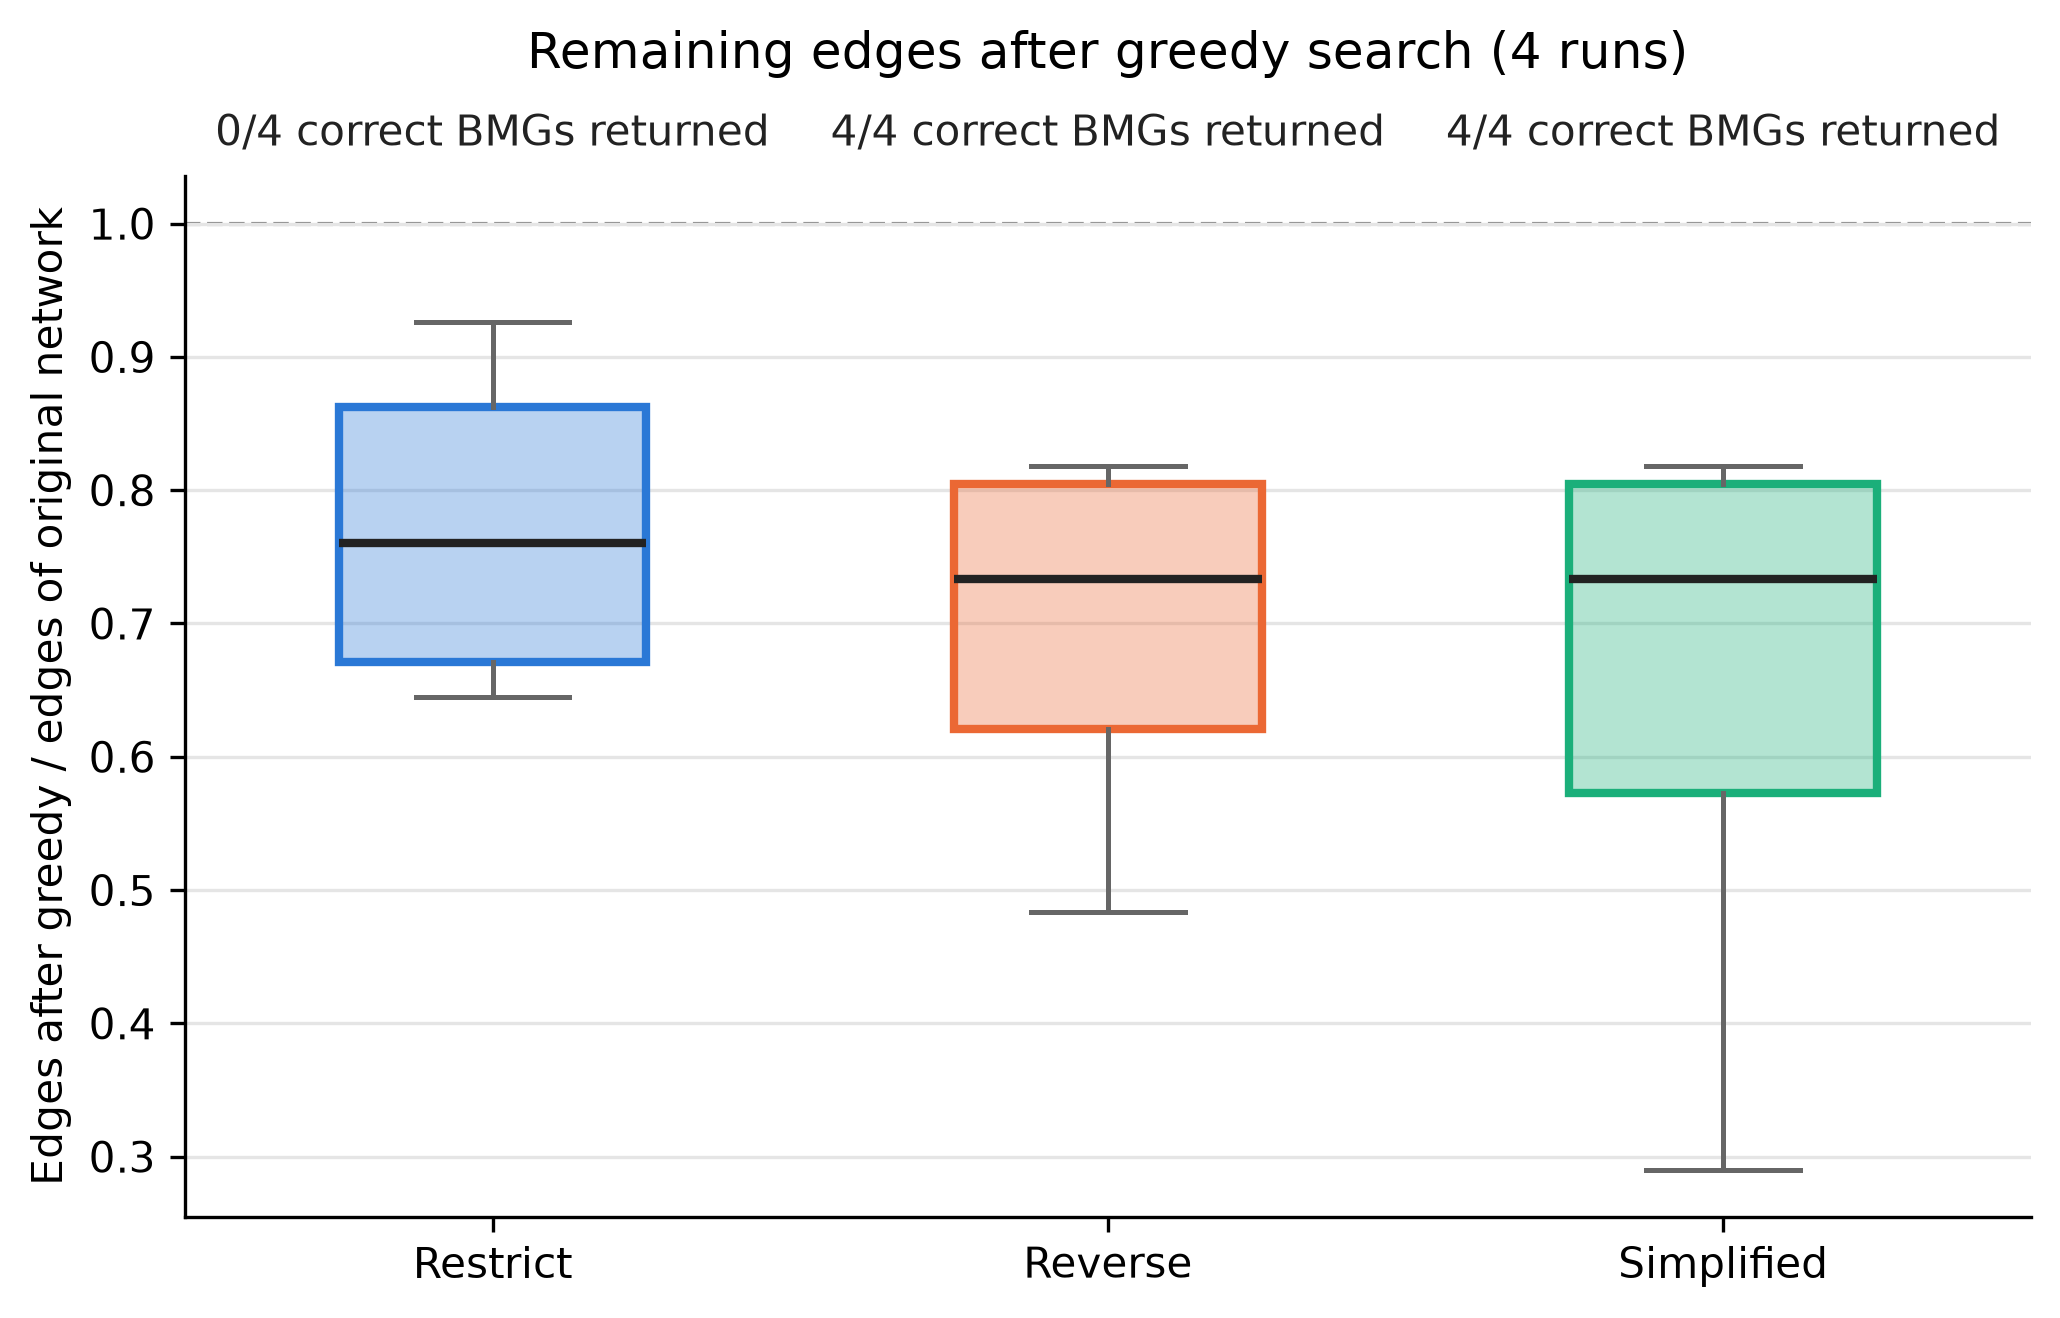
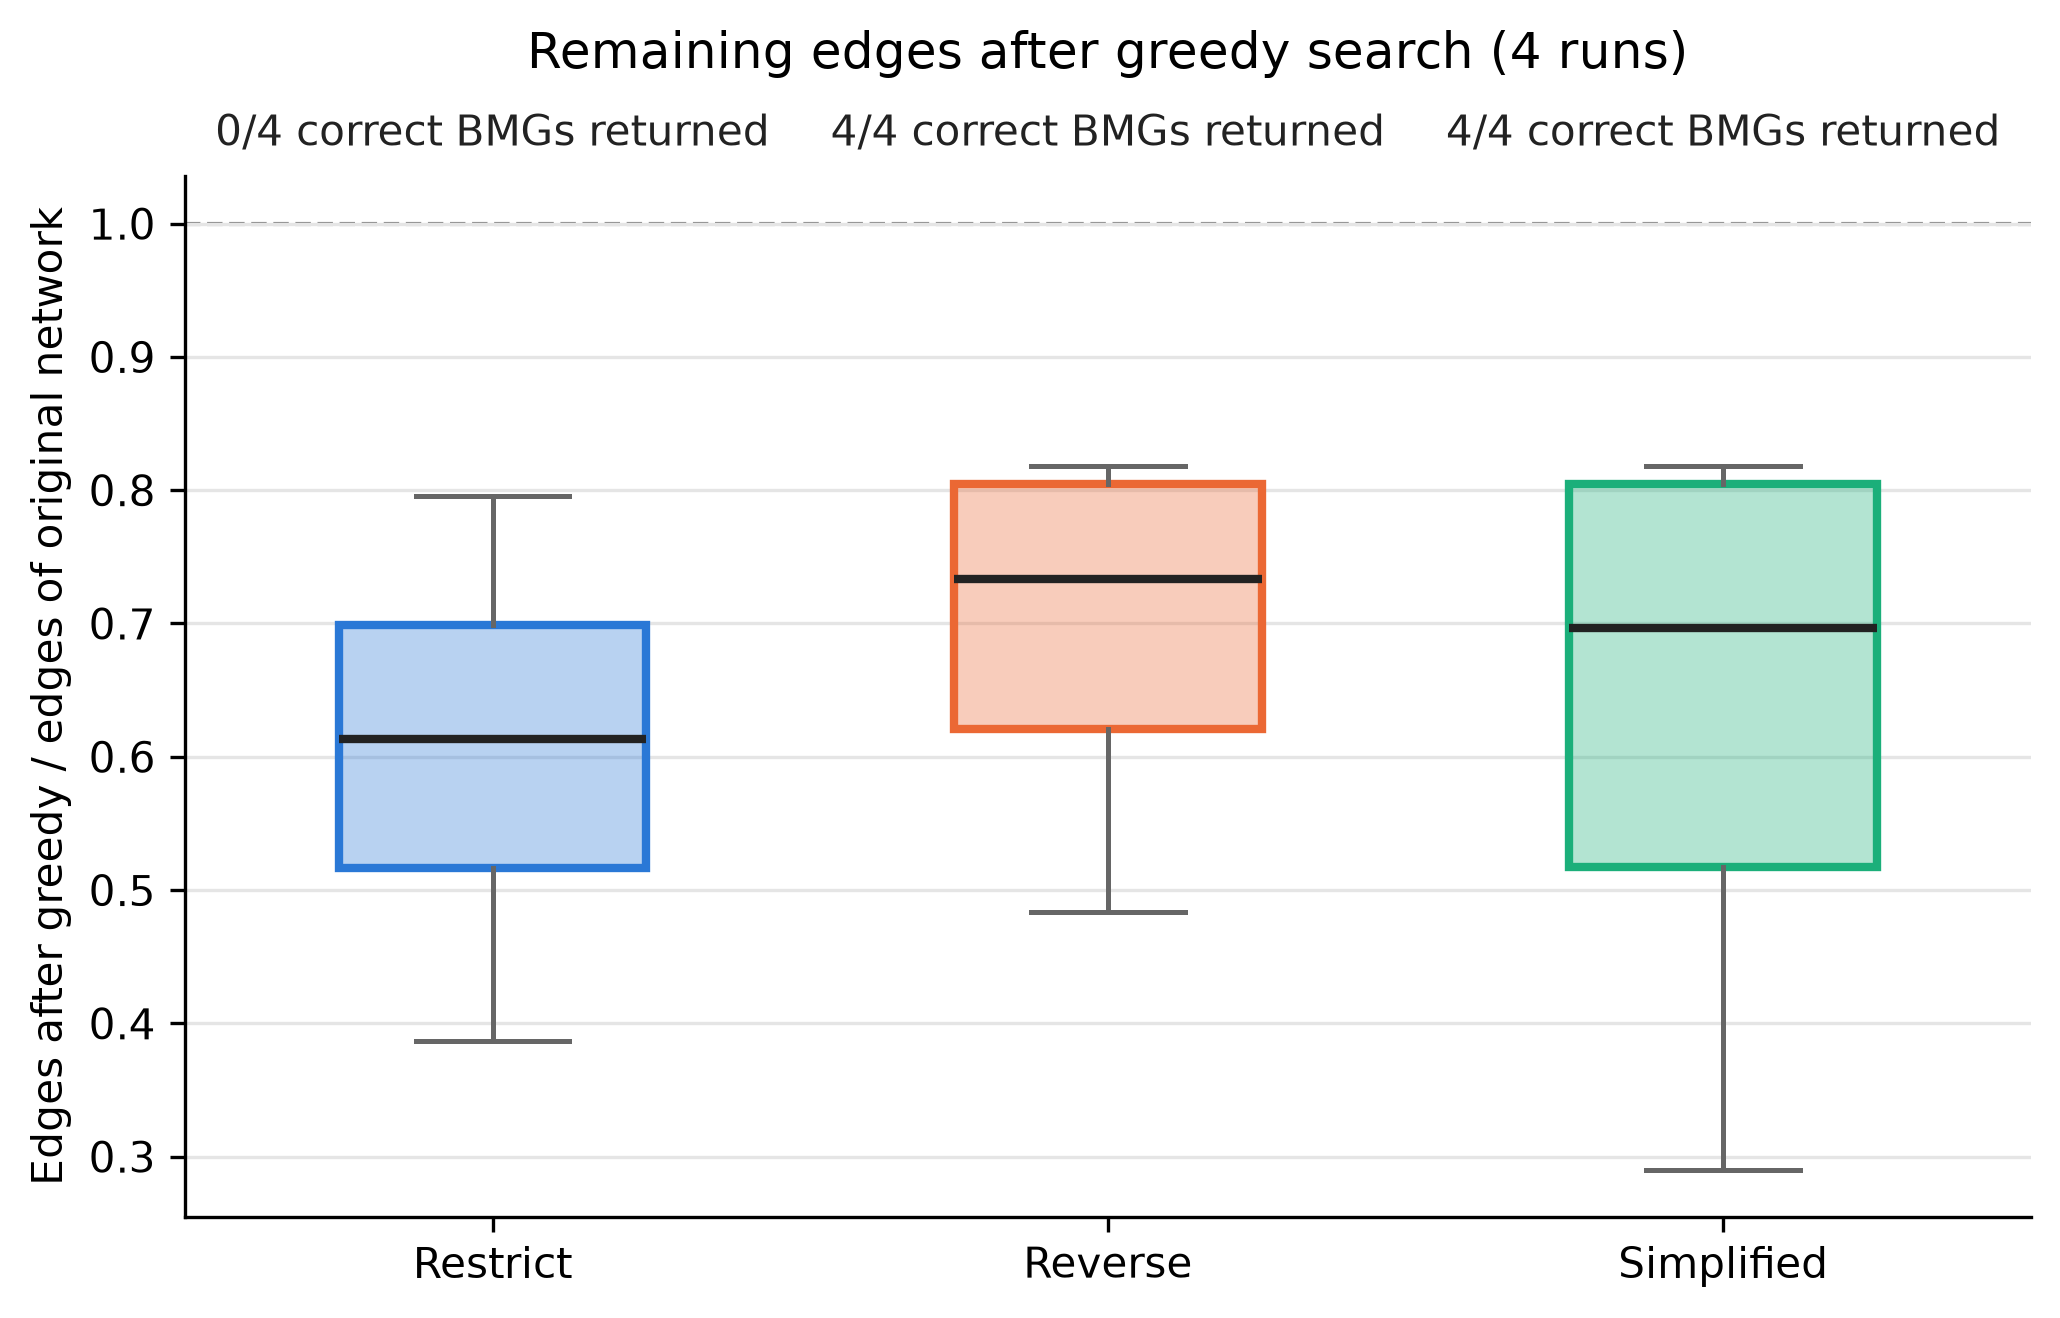
Added Tonys Funktion to greedy search, commented diamond out for now, changed output so flag can indicate if num of steps should be printed or returned as output. Added network test to break bmgs weak.

diff --git a/Code/simplifying_operations.py b/Code/simplifying_operations.py
@@ -4,6 +4,7 @@ import random
 from bmg_Tony import bmg
 from graph_functionality import compute_tree_likeness
 from network_editing_operations import remove_non_informative_nodes, remove_redundant_vertices
+import itertools
 
 """
     This script provides methods to simplify a graph network
@@ -232,10 +233,43 @@ def remove_diamond(network, network_bmg, bmg_mode):
                 network.add_edge(parent2, node)
     return network, False
 
+def combine_nodes(RBC):
+# Function from Tony, explanation missing
+    inner_nodes = [node for node in RBC.nodes if RBC.out_degree(node) > 0 and RBC.in_degree(node) > 0]
+    for node1, node2 in itertools.combinations(inner_nodes, 2):
+
+        # Knoten könnte durch eine frühere, akzeptierte Änderung schon entfernt worden sein
+        if not RBC.has_node(node1) or not RBC.has_node(node2):
+            continue
+
+        if (set(RBC.predecessors(node1)) == set(RBC.predecessors(node2))
+                and RBC.out_degree(node1) > 0
+                and RBC.out_degree(node2) > 0):
+
+            RBC2 = RBC.copy()  # echte, unabhängige Kopie
+            bmg_RBC = bmg(RBC, 'weak')
+
+            for successor in RBC.successors(node1):
+                RBC2.add_edge(node2, successor)
+            RBC2.remove_node(node1)
+
+            bmg_RBC2 = bmg(RBC2, 'weak')
+
+            if nx.utils.graphs_equal(bmg_RBC, bmg_RBC2):
+                RBC = RBC2
+                #return RBC2
+                #RBC = RBC2  # Änderung übernehmen
+                #bmg_RBC = bmg_RBC2  # Vergleichswert aktualisieren
+            #else:
+                #return RBC
+            # sonst: RBC2 wird einfach verworfen
+    return RBC
+
+
 def greedy_search(network: nx.DiGraph,
                   max_number_of_steps:int = 100,
                   tree_likeness_function:Callable[[nx.DiGraph], int] = compute_tree_likeness,
-                  bmg_mode:str="weak"):
+                  bmg_mode:str="weak", report_step_num:bool =False):
     """ Greedily searches for graph editing operations that can be performed on a network to make it more tree-like according to the tree_likeness_function.
 
         Parameters
@@ -248,6 +282,8 @@ def greedy_search(network: nx.DiGraph,
             function that measures the tree-likeness of a network numerically
         bmg_mode: String
             "weak" or "strong" depending on the best match type
+        report_step_num: Boolean
+            use True when you want to receive the number of steps as second output, also stops prints if true
 
         Returns
         -------
@@ -260,7 +296,8 @@ def greedy_search(network: nx.DiGraph,
     equal_score_steps = 0
 
     for i in range(max_number_of_steps):
-        print(f"simplifying step {i+1}/{max_number_of_steps}")
+        if not report_step_num:
+            print(f"simplifying step {i+1}/{max_number_of_steps}")
 
         remove_non_informative_nodes(network)
         remove_redundant_vertices(network)
@@ -291,8 +328,8 @@ def greedy_search(network: nx.DiGraph,
         #     continue
 
         # #removing diamonds
-        network, valid = remove_diamond(network, network_bmg, bmg_mode)
-        if valid:
+        #network, valid = remove_diamond(network, network_bmg, bmg_mode)
+        #if valid:
             equal_score_steps = 0
             score = tree_likeness_function(network)
             continue
@@ -309,7 +346,13 @@ def greedy_search(network: nx.DiGraph,
         equal_score_steps += 1
 
         if equal_score_steps > 10:
-            print("No further improvements found")
+            network = combine_nodes(network)
+            if report_step_num:
+                return network, i
+            else:
+                print("No further improvements found")
             return network
-
+    network = combine_nodes(network)
+    if report_step_num:
+        return network, i
     return network
